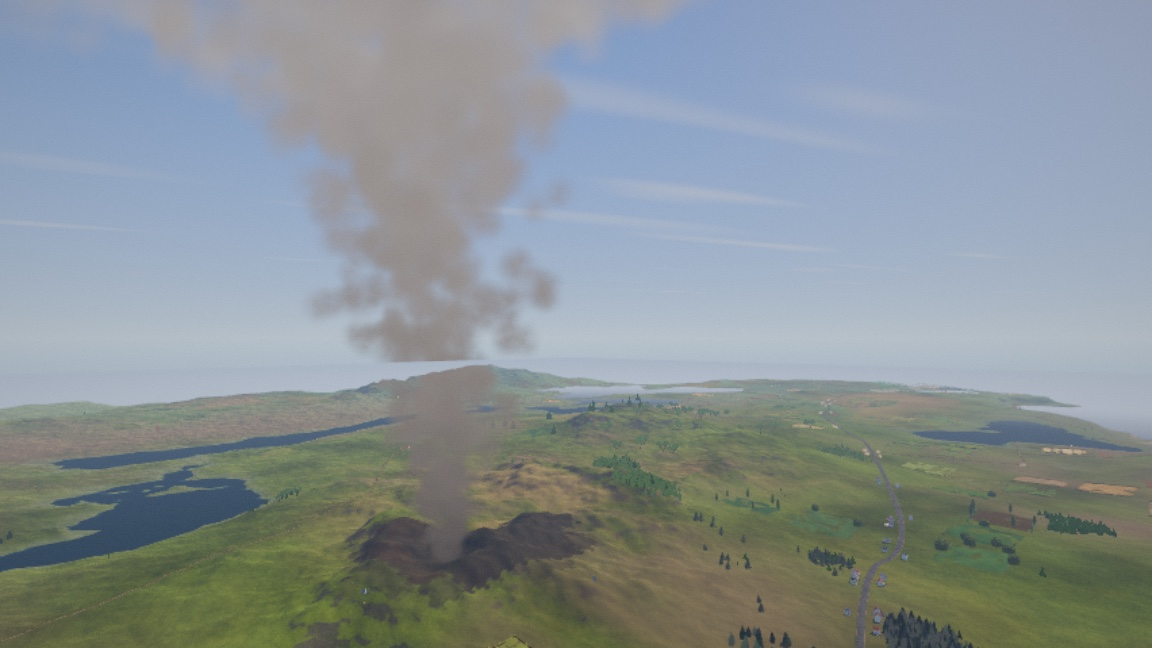
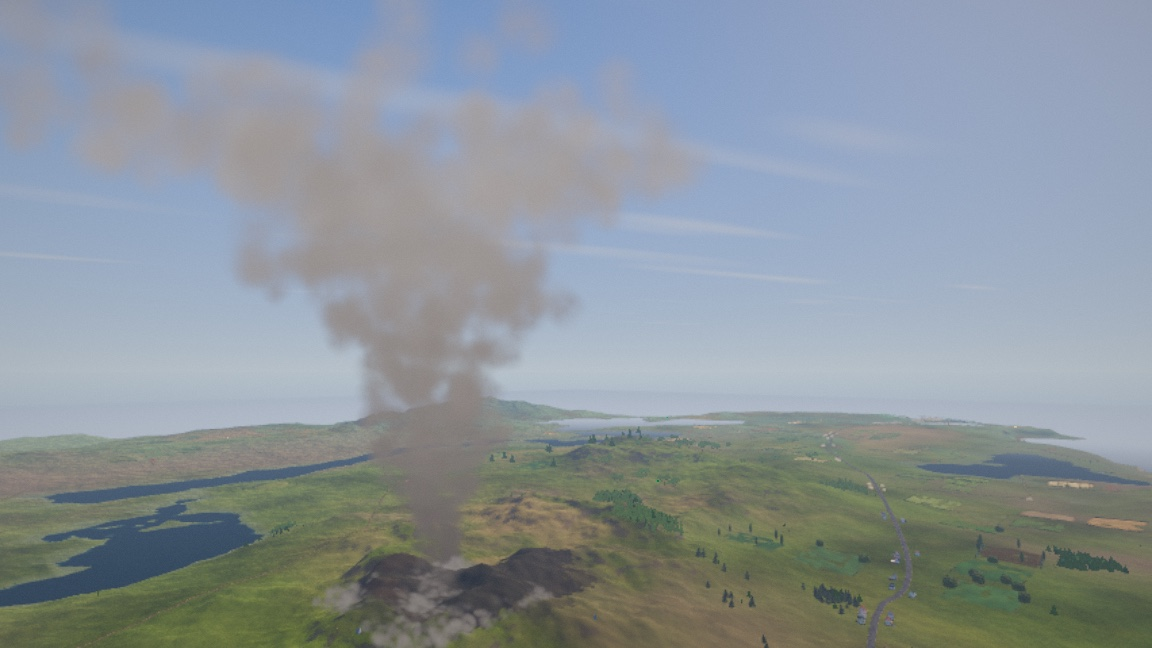
v0.9.0: the fire pass
New wildfire pictures, all three reshot on the rebuilt fire. Explains what
now drives the flames and the column -- fireline intensity, and the fire's own
heat output -- in the plain-language register the rest of the page uses.

Adds the two findings the operator produced by looking at screenshots: that
the old flames were "small fires if they were HUGE" (a campfire silhouette
scaled up to 32 m cells), and the missing band of smoke at the horizon, which
turned out to be the ocean plane sorting in front of the plume.

diff --git a/README.md b/README.md
@@ -181,9 +181,21 @@ leave it, so a kid mashing buttons cannot fall out of it by accident.
 - **Positional audio** (the rain and thunder are synthesized live, like everything
   else you hear), and a full instrument HUD with a moving map.
 
+![Low pass over the fire with 900 kg of water on the strop](screenshots/bucket-low-pass.jpg)
+
+The fire and its smoke are drawn from the same numbers the simulation runs on.
+The sim carries Byram's fireline intensity — how many kilowatts per metre of
+front the fire is actually putting out — and the flames read it: their length,
+how deep the burning band is, and how far they lean downwind all come out of
+that one quantity. So a grass fire lies over at about 46 degrees with flames a
+metre or two high, a crown fire stands nearly upright with ten-metre ones, and
+the slow-moving back edge of a fire draws visibly shorter flames than the head
+racing away from it.
+
 ![Working the burning edge with a full bucket, the scar behind it](screenshots/fire-front-bucket.jpg)
 
-![Low pass over the fire with 900 kg of water on the strop](screenshots/bucket-low-pass.jpg)
+The column rises the way a real convection column does, its updraft set by the
+fire's own heat output, so a big fire punches a plume that a small one cannot.
 
 ![The convection column standing off the burning ridge](screenshots/fire-column.jpg)
 
@@ -239,6 +251,20 @@ Then the sprites got smaller and there are now five times as many of them, which
 is the same lesson the rotorwash dust taught this project a month earlier: a
 metre-scale sprite is an *object*, and objects cannot pile up into a *medium*.
 It costs 1.5x the fill of the version that did not work.
+
+Then the flames got the same treatment, and the verdict on the old ones was
+blunt: *"what small fires would look like if they were HUGE."* Exactly right.
+Every 32 m cell was drawing one smooth symmetric mound — a campfire's silhouette,
+scaled up. A campfire is a point source; a wildfire is a *line*, deeper than it
+is tall, leaning downwind. It is now built that way, and the numbers behind it
+come out of the fire-behaviour literature rather than out of my eye.
+
+The best bug of the pass was found by the same person squinting at a screenshot
+and asking why part of the smoke was missing. It was: the ocean is a 16 km
+transparent plane, and without a render priority it sorted as nearer than the
+plume and painted over it wherever sea was behind the smoke. That had been true
+of everything transparent seen against open water, including the spray under the
+aircraft during a bucket dip.
 
 ### Where this started
 
